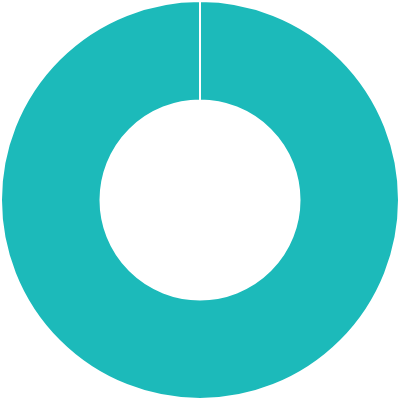
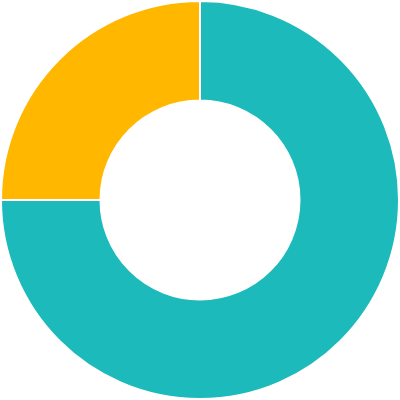
test

diff --git a/dailies/defuse-the-bomb.ts b/dailies/defuse-the-bomb.ts
@@ -1,0 +1,31 @@
+// Difficulty: Medium
+// Complexity: O(n^3)
+// Link: https://leetcode.com/problems/count-good-triplets/submissions/1606679654/?envType=daily-question&envId=2025-04-14
+
+function countGoodTriplets(
+  arr: number[],
+  a: number,
+  b: number,
+  c: number
+): number {
+  let triplets = 0;
+  for (let i = 0; i < arr.length; i++) {
+    for (let j = 0; j < arr.length; j++) {
+      for (let k = 0; k < arr.length; k++) {
+        if (
+          Math.abs(arr[i] - arr[j]) <= a &&
+          Math.abs(arr[j] - arr[k]) <= b &&
+          Math.abs(arr[i] - arr[k]) <= c &&
+          i < j &&
+          j < k
+        ) {
+          triplets++;
+        }
+      }
+    }
+  }
+
+  return triplets;
+}
+
+console.log(countGoodTriplets([3, 0, 1, 1, 9, 7], 7, 2, 3));

diff --git a/README.md b/README.md
@@ -14,8 +14,8 @@ A compilation of all of my solved leetcode problems using TypeScript
 
 ![Problems by difficulty](./.stats/chart.png)
 
-- **Easy:** 4 problems
-- **Medium:** 0 problems
+- **Easy:** 3 problems
+- **Medium:** 1 problems
 - **Hard:** 0 problems
 
 
